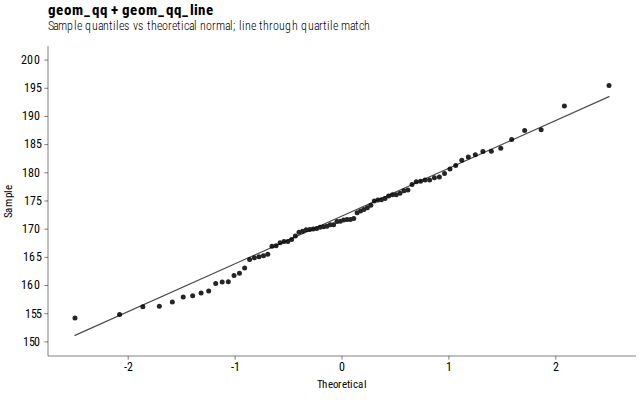
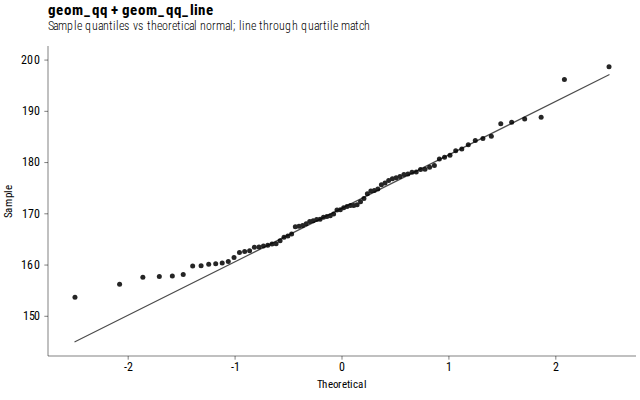
fix(ci): qq eval mock, gallery count, mulberry32 example data
Unblock PR #884 CI and Devin feedback: MockResponder covers geom_qq /
geom_qq_line (and geom_step from main), gallery exampleCount is 73, and
examples/qq/normal uses shared mulberry32 with recaptured preview.

diff --git a/tests/evals/model.ts b/tests/evals/model.ts
@@ -377,6 +377,44 @@ export class MockResponder implements Responder {
 
     // --- geom selection (keyword templates, most specific first) -----------
     if (
+      /\bq-?q\b/.test(prompt) ||
+      /\bgeom[_\s]?qq(?:_line)?\b/.test(prompt) ||
+      (/\bnormal\b/.test(prompt) && /\breference line\b/.test(prompt))
+    ) {
+      // geom_qq + geom_qq_line: sample channel (ggplot2 aes.sample) (#804).
+      const sample =
+        fieldNamed("height") ??
+        fieldNamed("latency") ??
+        fieldNamed("sample") ??
+        pick.quant() ??
+        "sample";
+      const sampleAes: MockAes = { sample: f(sample) };
+      spec.layers.push({ geom: "qq", aes: sampleAes });
+      if (
+        /\breference line\b|\bqq_line\b|\bqq-line\b/.test(prompt) ||
+        /\bwith a normal\b/.test(prompt)
+      ) {
+        spec.layers.push({ geom: "qq_line", aes: { sample: f(sample) } });
+      }
+    } else if (
+      (/\bgeom[_\s]?step\b|\bstep (?:line|chart)\b/.test(prompt) ||
+        (/\bstep\b/.test(prompt) &&
+          /\bhold(?:s|ing)?\b|\bcumulative\b|\bthermostat\b|\bsetpoint\b|\bdirection\b/.test(
+            prompt,
+          ))) &&
+      !/stepp?ed/.test(prompt)
+    ) {
+      // geom_step: hv/vh staircase polylines (#789). Not the intentional
+      // "stepped" unknown-geom repair fixture below.
+      const x = pick.temporal() ?? pick.quant() ?? "x";
+      const y = pick.quant() ?? "y";
+      const layer: MockLayer = { geom: "step", aes: { x: f(x), y: f(y) } };
+      if (/\bstart of each interval\b|\bdirection\b.*\bvh\b|\bvh\b/.test(prompt)) {
+        layer.params = { direction: "vh" };
+      }
+      spec.layers.push(layer);
+      xField = x;
+    } else if (
       /\bgeom[_\s]?spoke\b|\bspoke\b|\bvector field\b/.test(prompt) &&
       (fieldNamed("angle") !== undefined ||
         fieldNamed("radius") !== undefined ||

diff --git a/tests/visual/docs-home-gallery.spec.ts b/tests/visual/docs-home-gallery.spec.ts
@@ -224,9 +224,9 @@ test("install copy and code tabs share the manual-copy fallback", async ({ page 
 test("gallery exposes every generated preview exactly once", async ({ page }) => {
   await page.goto("/examples");
   // One meta.json per example under examples/ (grows when new specimens land).
-  // 75 previews − 3 interaction expositions; + point/abline-identity (#790)
-  // and step/ecdf (#789).
-  const exampleCount = 72;
+  // 76 previews − 3 interaction expositions; + point/abline-identity (#790),
+  // step/ecdf (#789), and qq/normal (#804).
+  const exampleCount = 73;
   await expect(page.locator(".example-grid li")).toHaveCount(exampleCount);
   await expect(page.locator('img[src*="/previews/"]')).toHaveCount(exampleCount);
 });

diff --git a/examples/qq/normal/data.ts b/examples/qq/normal/data.ts
@@ -1,11 +1,9 @@
+import { mulberry32 } from "../../rng.js";
+
 /** Sample from a slightly right-skewed distribution for a Q–Q demo. */
 export const heights: { height: number }[] = (() => {
   const rows: { height: number }[] = [];
-  let s = 7;
-  const rnd = () => {
-    s = (s * 1664525 + 1013904223) >>> 0;
-    return s / 0xffffffff;
-  };
+  const rnd = mulberry32(7);
   for (let i = 0; i < 80; i++) {
     // Box–Muller + slight skew
     const u1 = Math.max(1e-9, rnd());
